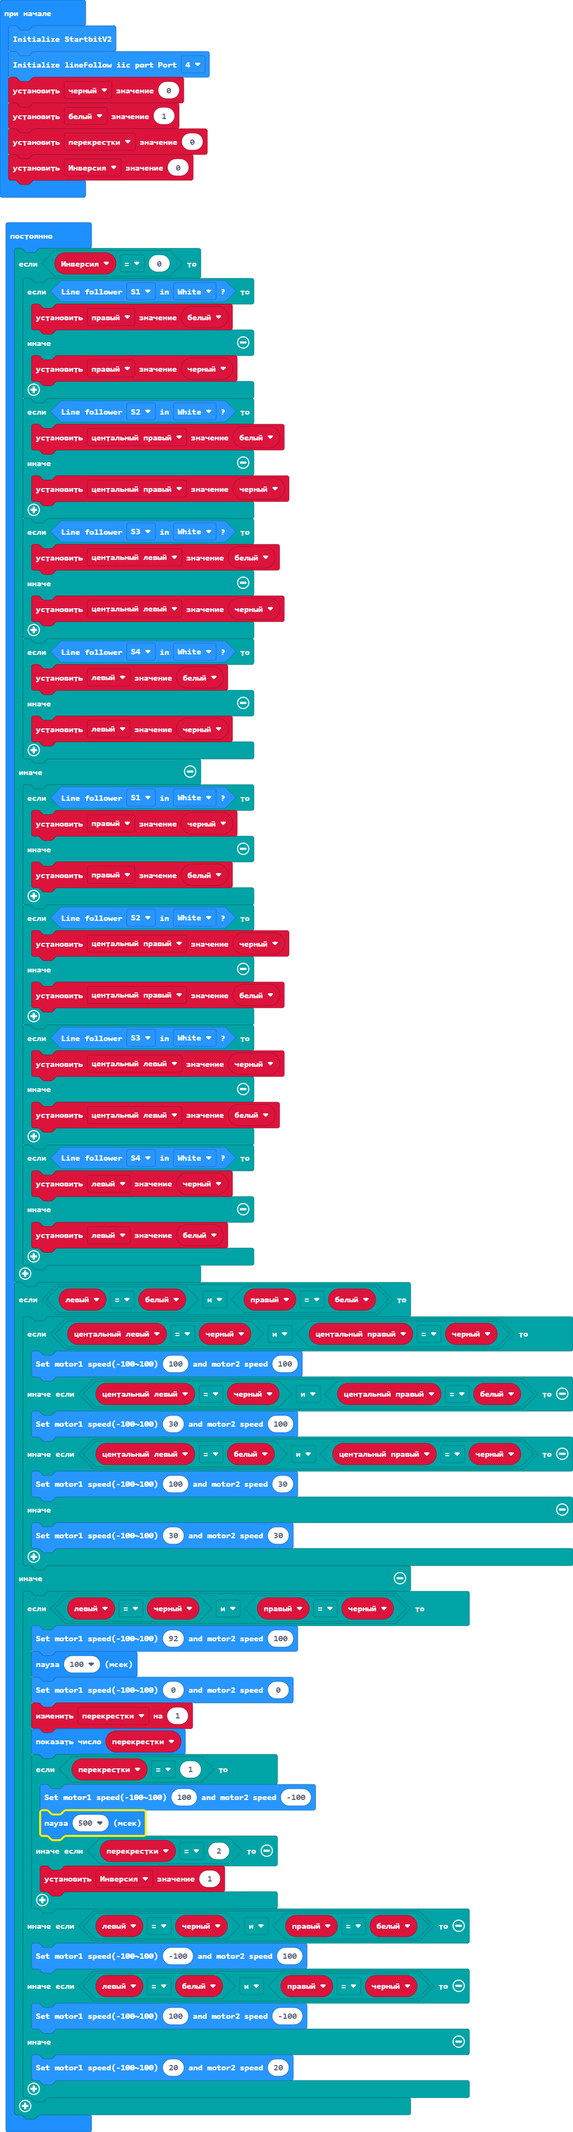
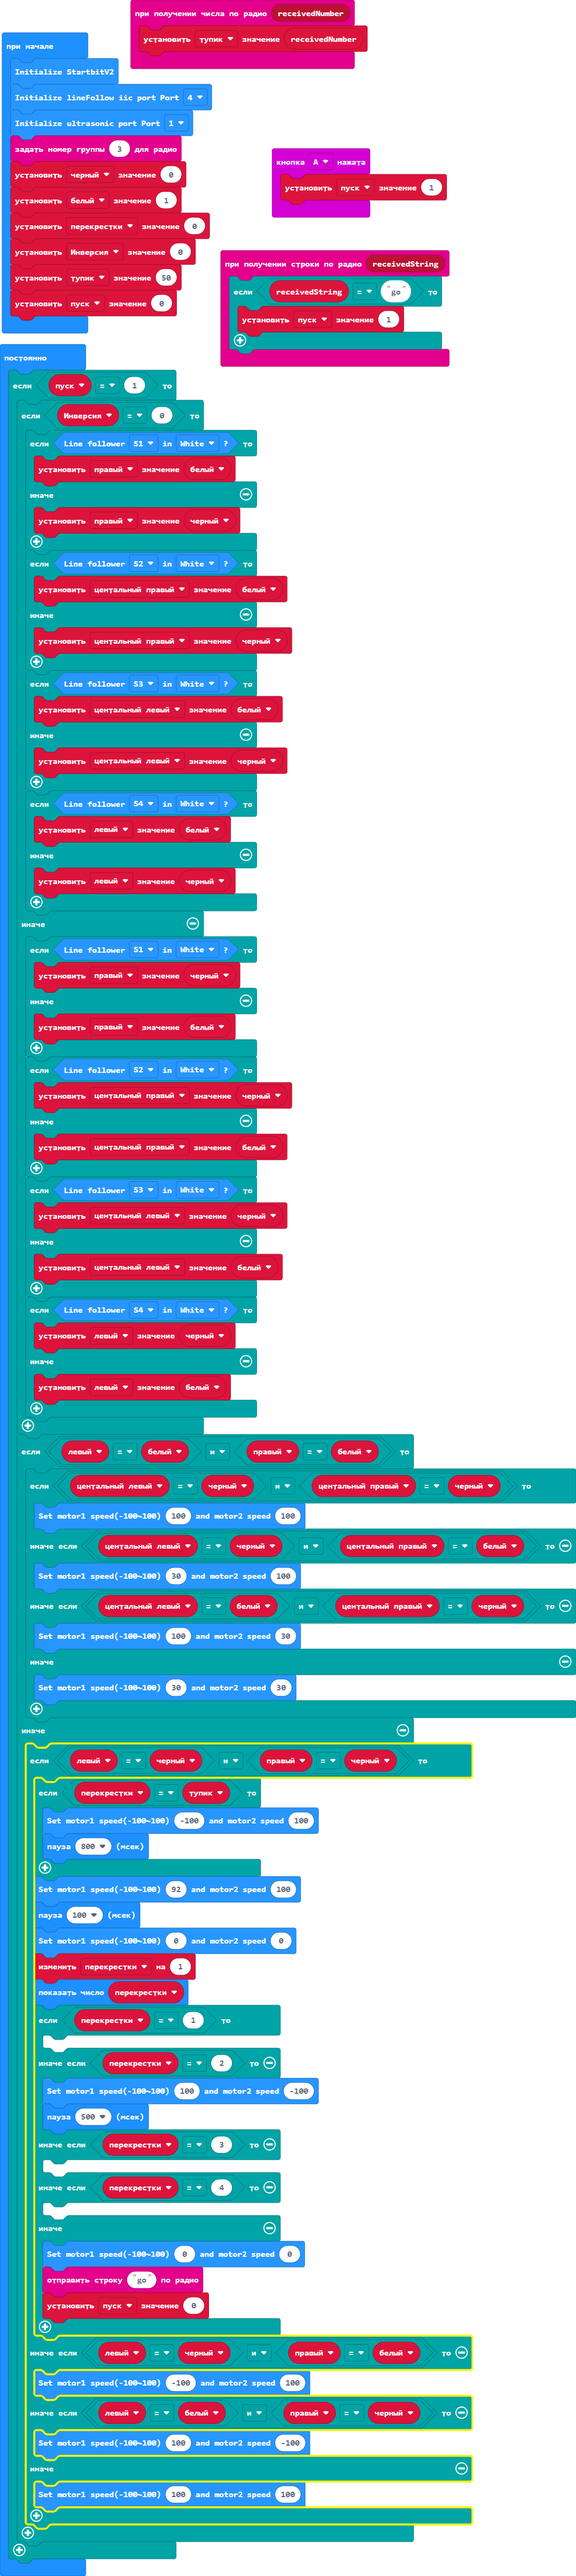
Обновить pxt.json, main.blocks, main.ts, main.py

diff --git a/main.ts b/main.ts
@@ -1,86 +1,117 @@
+radio.onReceivedNumber(function (receivedNumber) {
+    тупик = receivedNumber
+})
+input.onButtonPressed(Button.A, function () {
+    пуск = 1
+})
+radio.onReceivedString(function (receivedString) {
+    if (receivedString == "go") {
+        пуск = 1
+    }
+})
 let левый = 0
 let центальный_левый = 0
 let центальный_правый = 0
 let правый = 0
+let пуск = 0
+let тупик = 0
 StartbitV2.startbit_Init()
 StartbitV2.lineFollow_iic_init(StartbitV2.startbit_iic.port4)
+StartbitV2.ultrasonic_init(StartbitV2.startbit_ultrasonicPort.port1)
+radio.setGroup(3)
 let черный = 0
 let белый = 1
 let перекрестки = 0
 let Инверсия = 0
+тупик = 50
+пуск = 0
 basic.forever(function () {
-    if (Инверсия == 0) {
-        if (StartbitV2.startbit_line_followers(StartbitV2.startbit_LineFollowerSensors.S1, StartbitV2.startbit_LineColor.White)) {
-            правый = белый
-        } else {
-            правый = черный
-        }
-        if (StartbitV2.startbit_line_followers(StartbitV2.startbit_LineFollowerSensors.S2, StartbitV2.startbit_LineColor.White)) {
-            центальный_правый = белый
-        } else {
-            центальный_правый = черный
-        }
-        if (StartbitV2.startbit_line_followers(StartbitV2.startbit_LineFollowerSensors.S3, StartbitV2.startbit_LineColor.White)) {
-            центальный_левый = белый
-        } else {
-            центальный_левый = черный
-        }
-        if (StartbitV2.startbit_line_followers(StartbitV2.startbit_LineFollowerSensors.S4, StartbitV2.startbit_LineColor.White)) {
-            левый = белый
-        } else {
-            левый = черный
-        }
-    } else {
-        if (StartbitV2.startbit_line_followers(StartbitV2.startbit_LineFollowerSensors.S1, StartbitV2.startbit_LineColor.White)) {
-            правый = черный
-        } else {
-            правый = белый
-        }
-        if (StartbitV2.startbit_line_followers(StartbitV2.startbit_LineFollowerSensors.S2, StartbitV2.startbit_LineColor.White)) {
-            центальный_правый = черный
-        } else {
-            центальный_правый = белый
-        }
-        if (StartbitV2.startbit_line_followers(StartbitV2.startbit_LineFollowerSensors.S3, StartbitV2.startbit_LineColor.White)) {
-            центальный_левый = черный
-        } else {
-            центальный_левый = белый
-        }
-        if (StartbitV2.startbit_line_followers(StartbitV2.startbit_LineFollowerSensors.S4, StartbitV2.startbit_LineColor.White)) {
-            левый = черный
-        } else {
-            левый = белый
-        }
-    }
-    if (левый == белый && правый == белый) {
-        if (центальный_левый == черный && центальный_правый == черный) {
-            StartbitV2.startbit_setMotorSpeed(100, 100)
-        } else if (центальный_левый == черный && центальный_правый == белый) {
-            StartbitV2.startbit_setMotorSpeed(30, 100)
-        } else if (центальный_левый == белый && центальный_правый == черный) {
-            StartbitV2.startbit_setMotorSpeed(100, 30)
-        } else {
-            StartbitV2.startbit_setMotorSpeed(30, 30)
-        }
-    } else {
-        if (левый == черный && правый == черный) {
-            StartbitV2.startbit_setMotorSpeed(92, 100)
-            basic.pause(100)
-            StartbitV2.startbit_setMotorSpeed(0, 0)
-            перекрестки += 1
-            basic.showNumber(перекрестки)
-            if (перекрестки == 1) {
-                StartbitV2.startbit_setMotorSpeed(100, -100)
-                basic.pause(500)
-            } else if (перекрестки == 2) {
-                Инверсия = 1
+    if (пуск == 1) {
+        if (Инверсия == 0) {
+            if (StartbitV2.startbit_line_followers(StartbitV2.startbit_LineFollowerSensors.S1, StartbitV2.startbit_LineColor.White)) {
+                правый = белый
+            } else {
+                правый = черный
             }
-        } else if (левый == черный && правый == белый) {
-            StartbitV2.startbit_setMotorSpeed(-100, 100)
-        } else if (левый == белый && правый == черный) {
-            StartbitV2.startbit_setMotorSpeed(100, -100)
+            if (StartbitV2.startbit_line_followers(StartbitV2.startbit_LineFollowerSensors.S2, StartbitV2.startbit_LineColor.White)) {
+                центальный_правый = белый
+            } else {
+                центальный_правый = черный
+            }
+            if (StartbitV2.startbit_line_followers(StartbitV2.startbit_LineFollowerSensors.S3, StartbitV2.startbit_LineColor.White)) {
+                центальный_левый = белый
+            } else {
+                центальный_левый = черный
+            }
+            if (StartbitV2.startbit_line_followers(StartbitV2.startbit_LineFollowerSensors.S4, StartbitV2.startbit_LineColor.White)) {
+                левый = белый
+            } else {
+                левый = черный
+            }
         } else {
-            StartbitV2.startbit_setMotorSpeed(20, 20)
+            if (StartbitV2.startbit_line_followers(StartbitV2.startbit_LineFollowerSensors.S1, StartbitV2.startbit_LineColor.White)) {
+                правый = черный
+            } else {
+                правый = белый
+            }
+            if (StartbitV2.startbit_line_followers(StartbitV2.startbit_LineFollowerSensors.S2, StartbitV2.startbit_LineColor.White)) {
+                центальный_правый = черный
+            } else {
+                центальный_правый = белый
+            }
+            if (StartbitV2.startbit_line_followers(StartbitV2.startbit_LineFollowerSensors.S3, StartbitV2.startbit_LineColor.White)) {
+                центальный_левый = черный
+            } else {
+                центальный_левый = белый
+            }
+            if (StartbitV2.startbit_line_followers(StartbitV2.startbit_LineFollowerSensors.S4, StartbitV2.startbit_LineColor.White)) {
+                левый = черный
+            } else {
+                левый = белый
+            }
+        }
+        if (левый == белый && правый == белый) {
+            if (центальный_левый == черный && центальный_правый == черный) {
+                StartbitV2.startbit_setMotorSpeed(100, 100)
+            } else if (центальный_левый == черный && центальный_правый == белый) {
+                StartbitV2.startbit_setMotorSpeed(30, 100)
+            } else if (центальный_левый == белый && центальный_правый == черный) {
+                StartbitV2.startbit_setMotorSpeed(100, 30)
+            } else {
+                StartbitV2.startbit_setMotorSpeed(30, 30)
+            }
+        } else {
+            if (левый == черный && правый == черный) {
+                if (перекрестки == тупик) {
+                    StartbitV2.startbit_setMotorSpeed(-100, 100)
+                    basic.pause(800)
+                }
+                StartbitV2.startbit_setMotorSpeed(92, 100)
+                basic.pause(100)
+                StartbitV2.startbit_setMotorSpeed(0, 0)
+                перекрестки += 1
+                basic.showNumber(перекрестки)
+                if (перекрестки == 1) {
+                	
+                } else if (перекрестки == 2) {
+                    StartbitV2.startbit_setMotorSpeed(100, -100)
+                    basic.pause(500)
+                } else if (перекрестки == 3) {
+                	
+                } else if (перекрестки == 4) {
+                	
+                } else {
+                    StartbitV2.startbit_setMotorSpeed(0, 0)
+                    radio.sendString("go")
+                    пуск = 0
+                }
+            } else if (левый == черный && правый == белый) {
+                StartbitV2.startbit_setMotorSpeed(-100, 100)
+            } else if (левый == белый && правый == черный) {
+                StartbitV2.startbit_setMotorSpeed(100, -100)
+            } else {
+                StartbitV2.startbit_setMotorSpeed(100, 100)
+            }
         }
     }
 })

diff --git a/main.py b/main.py
@@ -1,0 +1,129 @@
+def on_received_number(receivedNumber):
+    global тупик
+    тупик = receivedNumber
+radio.on_received_number(on_received_number)
+
+def on_button_pressed_a():
+    global пуск
+    пуск = 1
+input.on_button_pressed(Button.A, on_button_pressed_a)
+
+def on_received_string(receivedString):
+    global пуск
+    if receivedString == "go":
+        music.play_melody("D C D F F G F B ", 226)
+        пуск = 1
+radio.on_received_string(on_received_string)
+
+левый = 0
+центальный_левый = 0
+центальный_правый = 0
+правый = 0
+пуск = 0
+тупик = 0
+StartbitV2.startbit_Init()
+StartbitV2.lineFollow_iic_init(StartbitV2.startbit_iic.PORT4)
+StartbitV2.ultrasonic_init(StartbitV2.startbit_ultrasonicPort.PORT1)
+radio.set_group(3)
+черный = 0
+белый = 1
+перекрестки = 0
+Инверсия = 0
+тупик = 50
+пуск = 0
+
+def on_forever():
+    global правый, центальный_правый, центальный_левый, левый, перекрестки, Инверсия, пуск
+    if пуск == 1:
+        if StartbitV2.startbit_ultrasonic() < 7:
+            StartbitV2.startbit_setMotorSpeed(0, 0)
+            radio.send_string("away")
+            basic.pause(2000)
+            if StartbitV2.startbit_ultrasonic() < 7:
+                radio.send_number(перекрестки)
+                music.play_melody("F G A A F E F G ", 228)
+                StartbitV2.startbit_setMotorSpeed(-100, 100)
+                basic.pause(800)
+        if Инверсия == 0:
+            if StartbitV2.startbit_line_followers(StartbitV2.startbit_LineFollowerSensors.S1,
+                StartbitV2.startbit_LineColor.WHITE):
+                правый = белый
+            else:
+                правый = черный
+            if StartbitV2.startbit_line_followers(StartbitV2.startbit_LineFollowerSensors.S2,
+                StartbitV2.startbit_LineColor.WHITE):
+                центальный_правый = белый
+            else:
+                центальный_правый = черный
+            if StartbitV2.startbit_line_followers(StartbitV2.startbit_LineFollowerSensors.S3,
+                StartbitV2.startbit_LineColor.WHITE):
+                центальный_левый = белый
+            else:
+                центальный_левый = черный
+            if StartbitV2.startbit_line_followers(StartbitV2.startbit_LineFollowerSensors.S4,
+                StartbitV2.startbit_LineColor.WHITE):
+                левый = белый
+            else:
+                левый = черный
+        else:
+            if StartbitV2.startbit_line_followers(StartbitV2.startbit_LineFollowerSensors.S1,
+                StartbitV2.startbit_LineColor.WHITE):
+                правый = черный
+            else:
+                правый = белый
+            if StartbitV2.startbit_line_followers(StartbitV2.startbit_LineFollowerSensors.S2,
+                StartbitV2.startbit_LineColor.WHITE):
+                центальный_правый = черный
+            else:
+                центальный_правый = белый
+            if StartbitV2.startbit_line_followers(StartbitV2.startbit_LineFollowerSensors.S3,
+                StartbitV2.startbit_LineColor.WHITE):
+                центальный_левый = черный
+            else:
+                центальный_левый = белый
+            if StartbitV2.startbit_line_followers(StartbitV2.startbit_LineFollowerSensors.S4,
+                StartbitV2.startbit_LineColor.WHITE):
+                левый = черный
+            else:
+                левый = белый
+        if левый == белый and правый == белый:
+            if центальный_левый == черный and центальный_правый == черный:
+                StartbitV2.startbit_setMotorSpeed(100, 100)
+            elif центальный_левый == черный and центальный_правый == белый:
+                StartbitV2.startbit_setMotorSpeed(30, 100)
+            elif центальный_левый == белый and центальный_правый == черный:
+                StartbitV2.startbit_setMotorSpeed(100, 30)
+            else:
+                StartbitV2.startbit_setMotorSpeed(30, 30)
+        else:
+            if левый == черный and правый == черный:
+                if перекрестки == тупик:
+                    StartbitV2.startbit_setMotorSpeed(-100, 100)
+                    basic.pause(800)
+                StartbitV2.startbit_setMotorSpeed(92, 100)
+                basic.pause(100)
+                StartbitV2.startbit_setMotorSpeed(0, 0)
+                перекрестки += 1
+                basic.show_number(перекрестки)
+                if перекрестки == 1:
+                    Инверсия = 1
+                elif перекрестки == 2:
+                    pass
+                elif перекрестки == 3:
+                    Инверсия = 0
+                elif перекрестки == 4:
+                    StartbitV2.startbit_setMotorSpeed(100, -100)
+                    basic.pause(500)
+                else:
+                    StartbitV2.startbit_setMotorSpeed(0, 0)
+                    for index in range(10):
+                        music.play_melody("A B G D C E G A ", 200)
+                    radio.send_string("go")
+                    пуск = 0
+            elif левый == черный and правый == белый:
+                StartbitV2.startbit_setMotorSpeed(-100, 100)
+            elif левый == белый and правый == черный:
+                StartbitV2.startbit_setMotorSpeed(100, -100)
+            else:
+                StartbitV2.startbit_setMotorSpeed(20, 20)
+basic.forever(on_forever)
